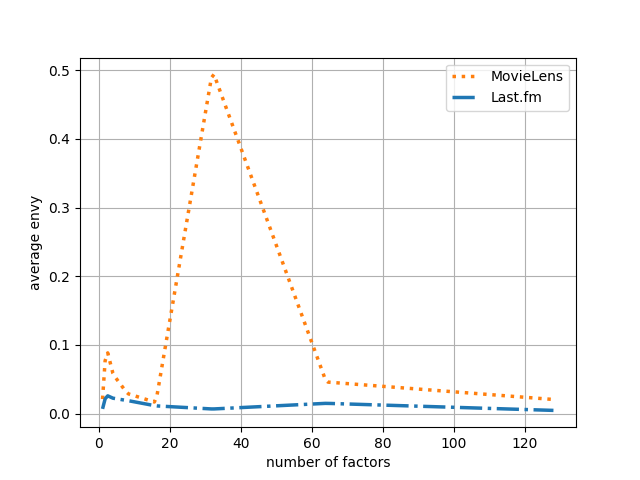
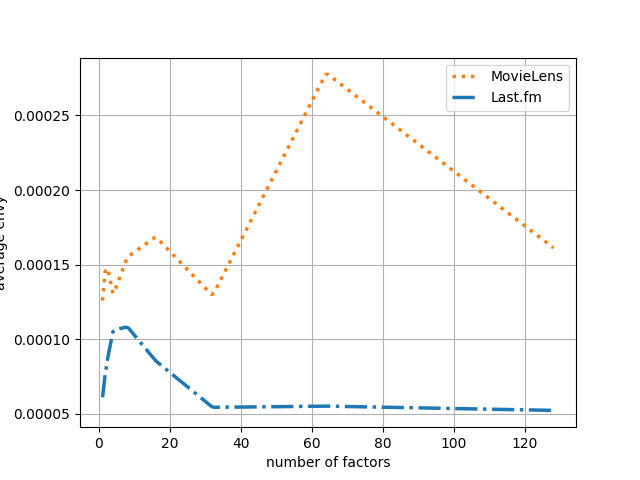
Fixed envy calculation bug

diff --git a/src/constant.py b/src/constant.py
@@ -8,10 +8,10 @@ DEBUG = True
 DUMMY_DATA_SET_CHOICE = "all"
 DUMMY_MODEL_CHOICE = {"fm": 
                         {"ground_truth": {"ALGORITHM": "als", "METRIC": "ndcg"}, 
-                        "recommender": {"ALGORITHM": "als", "METRIC": "ndcg", "normalize": True}},
+                        "recommender": {"ALGORITHM": "als", "METRIC": "ndcg", "normalize": False}},
                 "mv": 
                         {"ground_truth": {"ALGORITHM": "als", "METRIC": "ndcg"}, 
-                        "recommender": {"ALGORITHM": "als", "METRIC": "ndcg", "normalize": True}}
+                        "recommender": {"ALGORITHM": "als", "METRIC": "ndcg", "normalize": False}}
                 }
 
 DUMMY_EXPERIMENT_CHOICE = "5.1"
